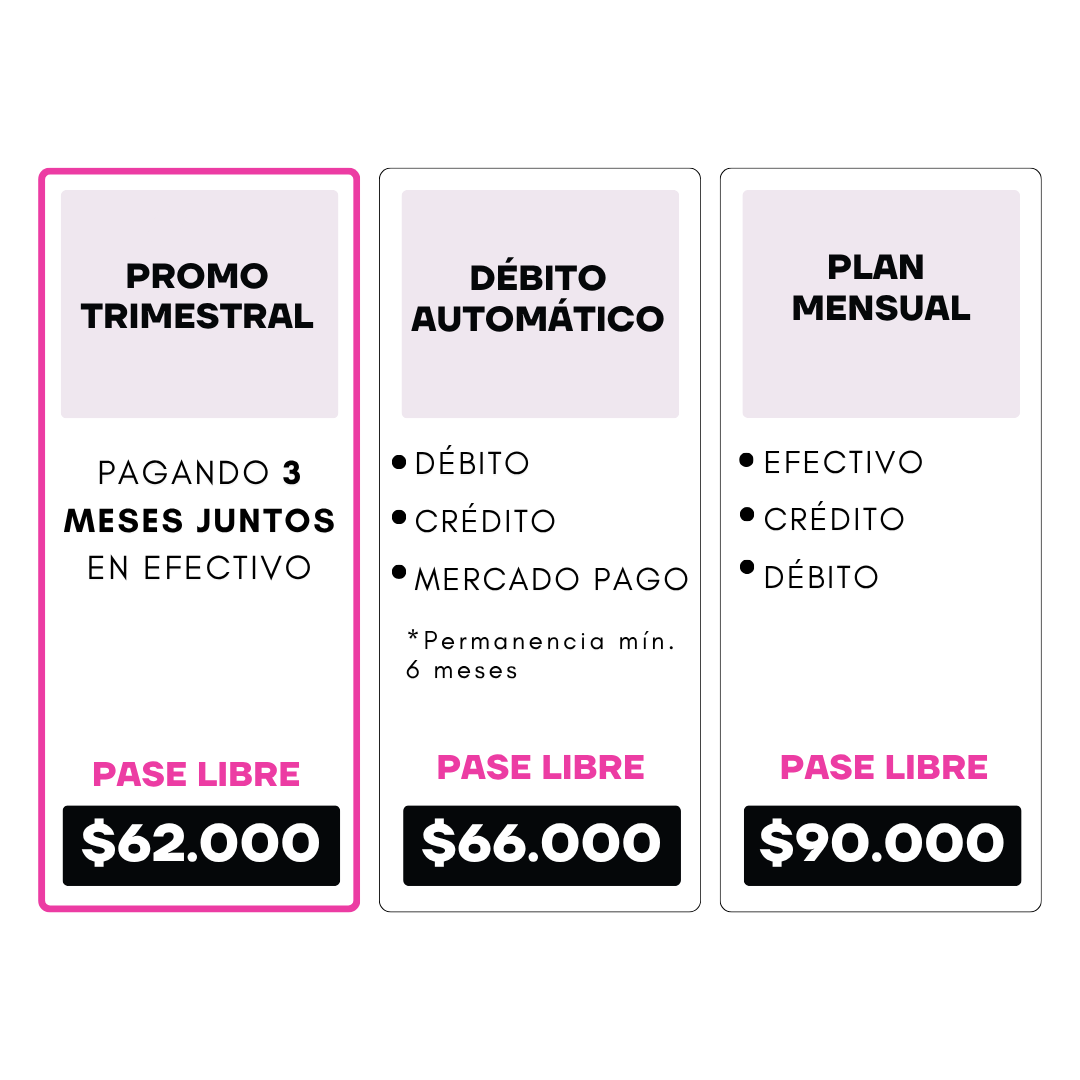
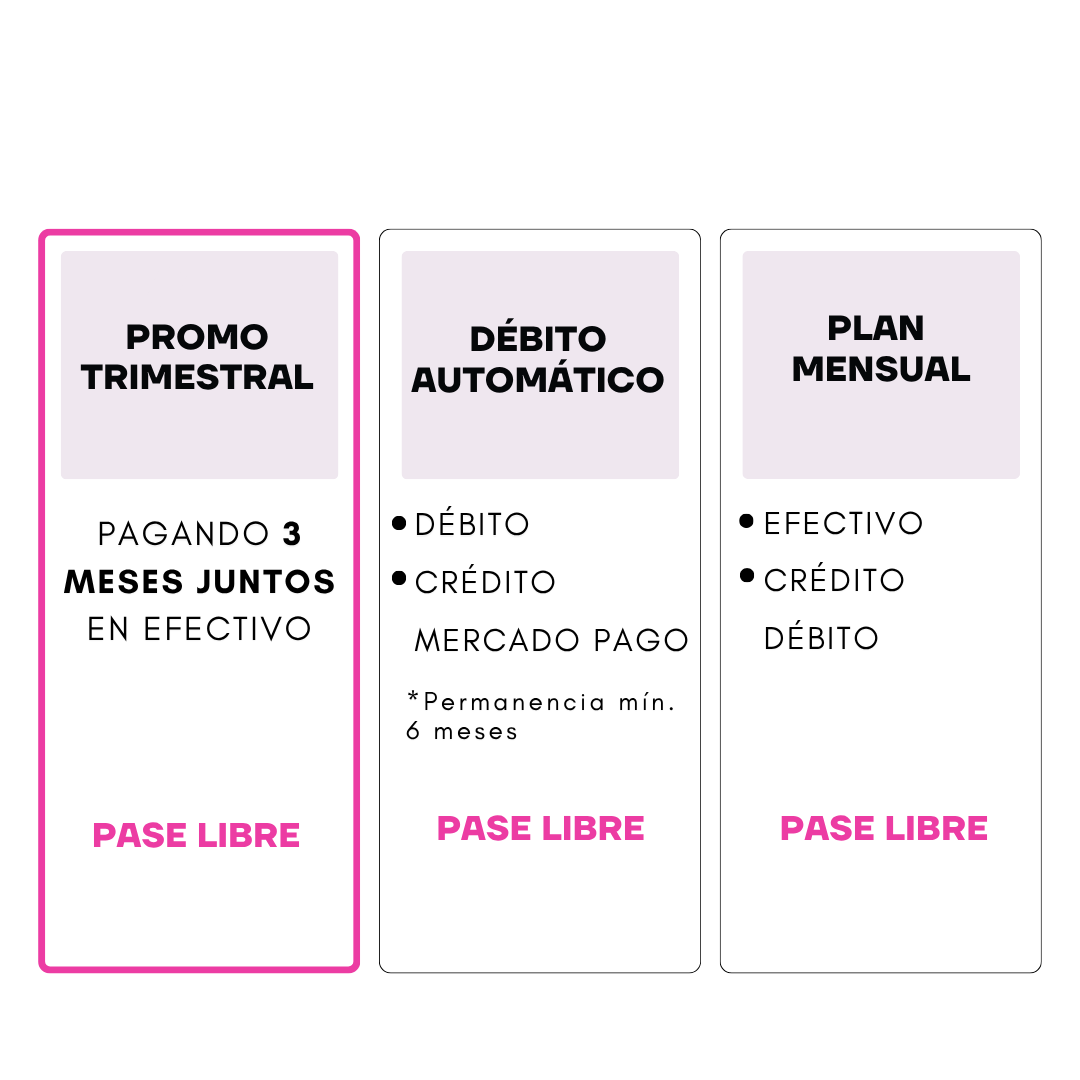
style: centra contenido del footer y ajusta layout del grid

diff --git a/index.html b/index.html
@@ -21,7 +21,6 @@
 
       <!-- ACTIVIDADES -->
       <div class="seccion">
-        <h2 class="seccion__titulo">Actividades</h2>
         <img
           class="seccion__imagen"
           src="assets/actividades.jpeg"
@@ -32,7 +31,6 @@
 
       <!-- HORARIOS -->
       <div class="seccion">
-        <h2 class="seccion__titulo">Horarios</h2>
         <img
           class="seccion__imagen"
           src="assets/horarios.jpeg"
@@ -44,8 +42,7 @@
       <!-- ABONOS -->
       <div class="seccion">
         <div class="seccion__img-wrapper">
-          <h2 class="seccion__titulo seccion__titulo--overlay">Abonos</h2>
-          <img
+<img
             class="seccion__imagen"
             src="assets/abonos.jpeg"
             alt="Abonos"
@@ -67,7 +64,7 @@
           </div>
 
           <!-- Contacto -->
-          <div>
+          <div class="footer__contact-group">
             <h4 class="footer__section-title">Contacto</h4>
             <div class="footer__contact">
               <a href="tel:+5491535861290">
@@ -144,6 +141,7 @@
                   href="https://instagram.com/tora_arg"
                   target="_blank"
                   rel="noopener noreferrer"
+                  aria-label="Instagram"
                 >
                   <svg
                     xmlns="http://www.w3.org/2000/svg"
@@ -166,7 +164,6 @@
                       16a4 4 0 1 1 0-8 4 4 0 0 1 0 8zm6.406-11.845a1.44 1.44 0 1 0 0 2.881 1.44 1.44 0 0 0 0-2.881z"
                     />
                   </svg>
-                  Instagram
                 </a>
               </li>
               <li>
@@ -174,6 +171,7 @@
                   href="https://www.facebook.com/ToraArg"
                   target="_blank"
                   rel="noopener noreferrer"
+                  aria-label="Facebook"
                 >
                   <svg
                     xmlns="http://www.w3.org/2000/svg"
@@ -190,7 +188,6 @@
                       C19.612 23.027 24 18.062 24 12.073z"
                     />
                   </svg>
-                  Facebook
                 </a>
               </li>
               <li>
@@ -198,6 +195,7 @@
                   href="https://wa.me/5491135861290"
                   target="_blank"
                   rel="noopener noreferrer"
+                  aria-label="WhatsApp"
                 >
                   <svg
                     xmlns="http://www.w3.org/2000/svg"
@@ -224,7 +222,6 @@
                       0 0 0-3.48-8.413Z"
                     />
                   </svg>
-                  WhatsApp
                 </a>
               </li>
             </ul>

diff --git a/styles.css b/styles.css
@@ -69,7 +69,6 @@ body {
   display: flex;
   flex-direction: column;
   align-items: center;
-  gap: 10px;
 }
 
 .seccion__titulo {
@@ -181,7 +180,9 @@ body {
 
 /* ─── FOOTER ─── */
 .footer {
-  background-color: transparent;
+  background-color: rgba(0, 0, 0, 0.3);
+  backdrop-filter: blur(1px);
+  -webkit-backdrop-filter: blur(1px);
   color: #fff;
   text-shadow: 0 2px 8px rgba(0, 0, 0, 0.6);
 }
@@ -196,11 +197,12 @@ body {
   display: grid;
   grid-template-columns: 1fr;
   gap: 3rem;
+  text-align: center;
 }
 
 @media (min-width: 768px) {
   .footer__grid {
-    grid-template-columns: 2fr 1fr 1fr 1fr;
+    grid-template-columns: 1fr auto auto;
   }
 }
 
@@ -208,6 +210,8 @@ body {
   font-family: var(--font-main);
   display: flex;
   flex-direction: column;
+  align-items: flex-start;
+  text-align: left;
   gap: 0.25rem;
 }
 
@@ -217,7 +221,7 @@ body {
   font-weight: 900;
   letter-spacing: 0.1em;
   text-transform: uppercase;
-  color: var(--pink);
+  color: var(--white);
   padding-bottom: 1rem;
   display: block;
   line-height: 1;
@@ -225,16 +229,20 @@ body {
 
 .footer__brand-tagline {
   font-family: var(--font-subtitles);
-  font-size: 1.3rem;
+  font-size: 1.1rem;
   font-weight: 700;
   text-transform: uppercase;
   color: #fff;
   line-height: 1.5;
 }
 
+.footer__contact-group .footer__section-title {
+  text-align: left;
+}
+
 .footer__section-title {
   font-family: var(--font-main);
-  font-size: 1.6rem;
+  font-size: 1.4rem;
   letter-spacing: 0.2em;
   text-transform: uppercase;
   color: #fff;
@@ -244,14 +252,14 @@ body {
 .footer__list {
   list-style: none;
   display: flex;
-  flex-direction: column;
+  flex-direction: row;
   justify-content: center;
   gap: 1.25rem;
 }
 
 .footer__list a {
   font-family: var(--font-subtitles);
-  font-size: 1.3rem;
+  font-size: 1.1rem;
   color: rgba(255, 255, 255, 0.85);
   text-decoration: none;
   display: flex;
@@ -272,7 +280,7 @@ body {
 
 .footer__contact a {
   font-family: var(--font-subtitles);
-  font-size: 1.3rem;
+  font-size: 1.1rem;
   color: rgba(255, 255, 255, 0.85);
   text-decoration: none;
   display: flex;
@@ -309,7 +317,9 @@ body {
 
 .footer__copy {
   font-family: var(--font-subtitles);
-  font-size: 1.1rem;
+  font-size: 1rem;
   color: rgba(255, 255, 255, 0.7);
+  text-align: center;
+  width: 100%;
 }
 
